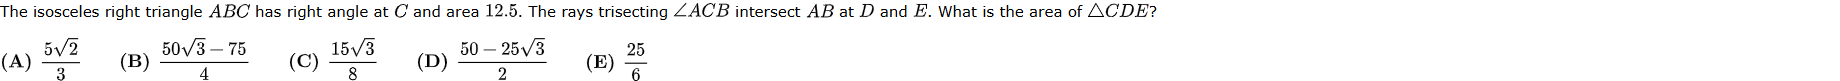
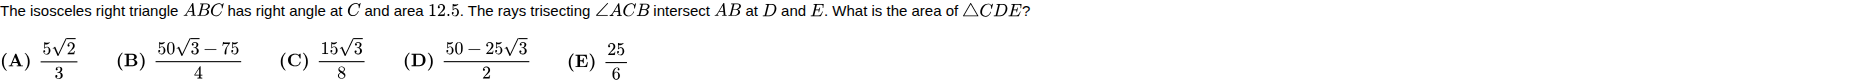
Testing pixel comparison in CI

Changed region(s): [[0.0, 0.475, 0.3717, 1.0], [0.0, 0.025, 0.6505, 0.25], [0.031, 0.925, 0.062, 0.975]]

diff --git a/kid-problem-ui-test-selenium/KpUiTestxUnit/Utilties/CommonHelper.cs b/kid-problem-ui-test-selenium/KpUiTestxUnit/Utilties/CommonHelper.cs
@@ -89,8 +89,10 @@ public static class CommonHelper
     /// </summary>
     /// <param name="baselineImageName">Baseline Image Name excluding the extention. eg., baseline, instead of baseline.png</param>
     /// <param name="imageFullNameFromRuntime">Screenshot taken in the runtime. It is the full name of the png file. </param>
-    /// <returns>SSIM: should >= 0.95</returns>
-    public static double ComparePictureWithTolerance(string baselineImageName, string imageFullNameFromRuntime)
+    /// <param name="perChannelTolerance">The tolerance for each color channel (R, G, B). Default is 5, which means each channel can differ by up to 5 units (out of 255).</param>
+    /// <param name="allowedDifferenceRatio">The allowed ratio of different pixels to total pixels. Default is 0.15, which means up to 15% of the pixels can be different for the images to be considered a match.</param>
+    /// <returns></returns>
+    public static bool ComparePictureWithTolerance(string baselineImageName, string imageFullNameFromRuntime, int perChannelTolerance = 5, double allowedDifferenceRatio = 0.15)
     {
 
         Assembly assembly = Assembly.GetExecutingAssembly();
@@ -110,50 +112,29 @@ public static class CommonHelper
             img2.Mutate(x => x.Resize(img1.Width, img1.Height));
         }
 
-        int width = img1.Width;
-        int height = img1.Height;
-        int pixels = width * height;
+        int compareRangeX = Math.Min(img1.Width, img2.Width);
+        int compareRangeY = Math.Min(img1.Height, img2.Height);
+        int totalPixels = img1.Width * img1.Height;
+        int diffPixels = Math.Abs(totalPixels - img2.Width * img2.Height);
 
-        double mean1 = 0, mean2 = 0;
-
-        for (int y = 0; y < height; y++)
+        for (int y = 0; y < compareRangeY; y++)
         {
-            for (int x = 0; x < width; x++)
+            for (int x = 0; x < compareRangeX; x++)
             {
-                mean1 += img1[x, y].R;
-                mean2 += img2[x, y].R;
+                var p1 = img1[x, y];
+                var p2 = img2[x, y];
+
+                if (Math.Abs(p1.R - p2.R) > perChannelTolerance ||
+                    Math.Abs(p1.G - p2.G) > perChannelTolerance ||
+                    Math.Abs(p1.B - p2.B) > perChannelTolerance)
+                {
+                    diffPixels++;
+                }
             }
         }
 
-        mean1 /= pixels;
-        mean2 /= pixels;
-
-        double variance1 = 0, variance2 = 0, covariance = 0;
-
-        for (int y = 0; y < height; y++)
-        {
-            for (int x = 0; x < width; x++)
-            {
-                double v1 = img1[x, y].R - mean1;
-                double v2 = img2[x, y].R - mean2;
-
-                variance1 += v1 * v1;
-                variance2 += v2 * v2;
-                covariance += v1 * v2;
-            }
-        }
-
-        variance1 /= pixels - 1;
-        variance2 /= pixels - 1;
-        covariance /= pixels - 1;
-
-        const double C1 = 6.5025;
-        const double C2 = 58.5225;
-
-        double numerator = (2 * mean1 * mean2 + C1) * (2 * covariance + C2);
-        double denominator = (mean1 * mean1 + mean2 * mean2 + C1) *
-                             (variance1 + variance2 + C2);
-
-        return numerator / denominator;
+        double diffRatio = (double)diffPixels / totalPixels;
+        Console.WriteLine($"Total Pixels: {totalPixels}, Different Pixels: {diffPixels}, Difference Ratio: {diffRatio:P2}");
+        return diffRatio <= allowedDifferenceRatio;
     }
 }

diff --git a/kid-problem-ui-test-selenium/KpUiTestxUnit/Tests/ProblemTest.cs b/kid-problem-ui-test-selenium/KpUiTestxUnit/Tests/ProblemTest.cs
@@ -208,7 +208,7 @@ namespace KpUiTestxUnit.Tests
                 var screenshotFile = page.TakeSnapshotOfProblemText();
                 Assert.NotNull(screenshotFile);
                 var result = CommonHelper.ComparePictureWithTolerance("problem_view_AMC10-2015A-019", screenshotFile);
-                Assert.True(result >= 0.95);
+                Assert.True(result);
             });
         }
 
